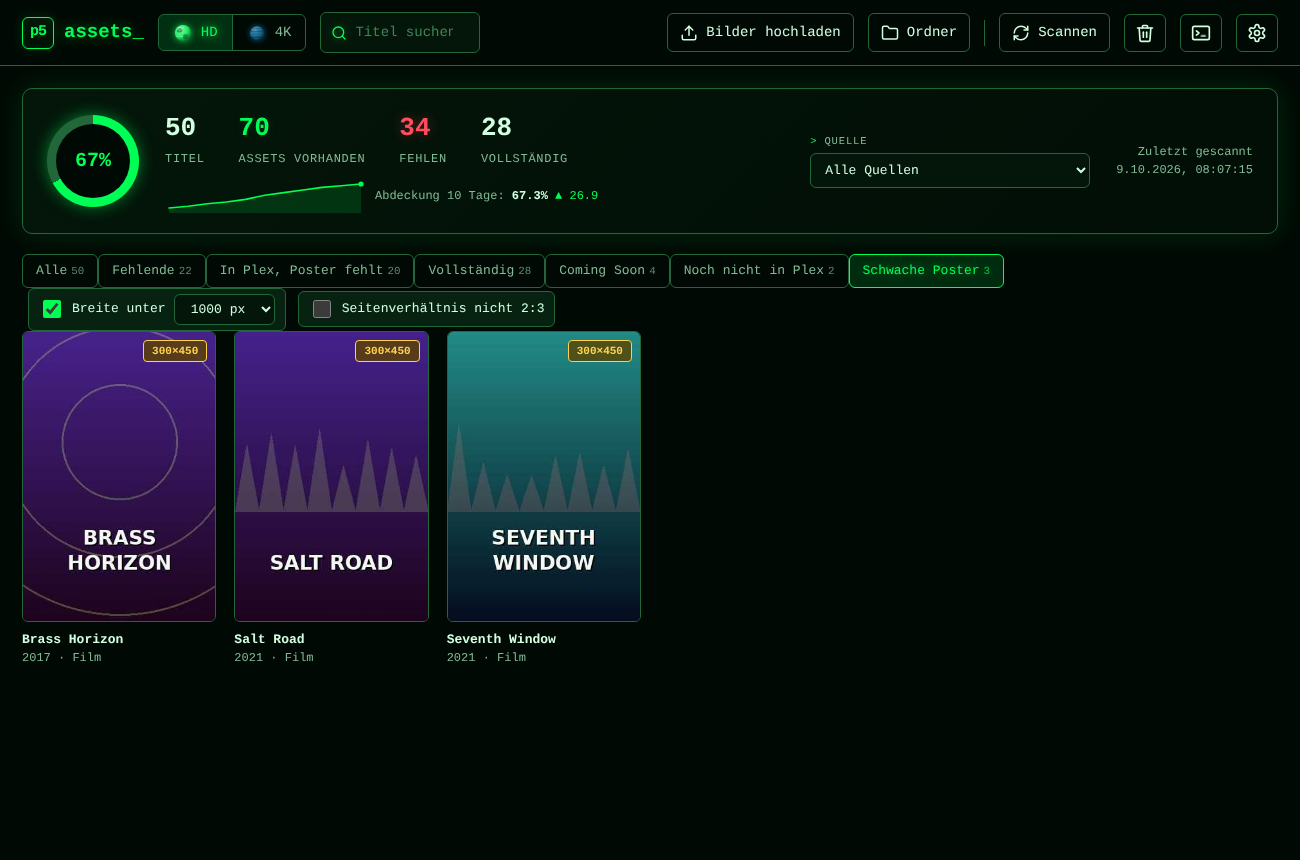
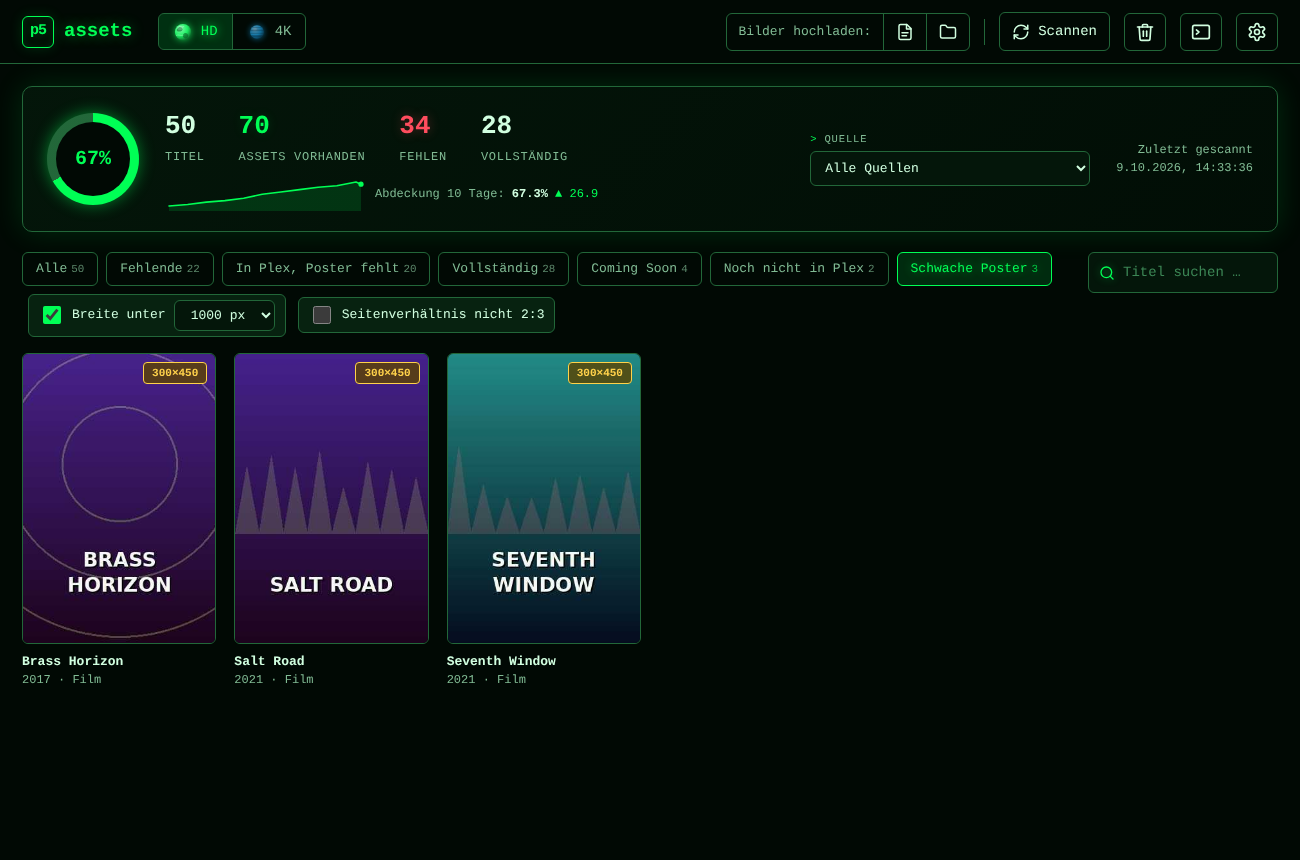
Kopfzeile schlanker: Upload-Gruppe mit Datei- und Ordner-Symbol, Suche neben den Reitern; Suche im Papierkorb und bei verwaisten Ordnern; neue README-Bilder
Claude-Session: https://claude.ai/code/session_01JoFLcQEW7QhHAh66qJqz46

diff --git a/app/static/app.js b/app/static/app.js
@@ -241,35 +241,54 @@ const fmtBytes = b => b >= 1048576 ? (b / 1048576).toFixed(1) + " MB" : Math.max
 const fmtWhen = ts => new Date(ts * 1000).toLocaleString("de-DE", { day: "2-digit", month: "2-digit", hour: "2-digit", minute: "2-digit" });
 const REASON = { replace: "ersetzt", delete: "gelöscht", orphan: "verwaister Ordner", restore: "vor Wiederherstellung" };
 
+const normText = t => (t || "").normalize("NFD").replace(/[\u0300-\u036f]/g, "").toLowerCase();
+const LIST_SEARCH_MIN = 8;      // a search field is only worth it for longer lists
+/** Small search field for a list inside a window; calls onInput(normalized text) while typing. */
+function listSearch(onInput) {
+  const input = h("input", { type: "search", placeholder: "Suchen …", autocomplete: "off", enterkeyhint: "search", oninput: e => onInput(normText(e.target.value).trim()) });
+  return h("div", { class: "search lsearch" }, icon("search", 16), input);
+}
+
 /** "Papierkorb & Aufräumen": the trash (replaced/deleted posters, 30 days) and folders that belong to no title any more. */
 function openCleanup(initial = "trash") {
   let tab = initial;
   const body = h("div"), tabs = h("div", { class: "tabs", style: "position:static" });
   const m = modal("Papierkorb & Aufräumen", h("div", {}, tabs, body));
+  const slotNames = g => (g.slot || "").split(", ").filter(Boolean).map(k => { try { return slotLabel(k, g.type || "show"); } catch { return k; } }).join(", ");
   const refresh = () => { loadItems().then(renderGrid); api("/status").then(r => { S.st.summary = r; updateHero(); }); };
 
   async function drawTrash() {
     fill(body, h("div", { class: "empty", style: "padding:30px" }, h("span", { class: "spin" })));
     const r = await api("/trash"), gs = r.groups;
     const total = gs.reduce((a, g) => a + g.size, 0);
+    const list = h("div"), count = h("span", { class: "hint", style: "margin:0" });
+    const rowEl = g => {
+      const file = g.files.find(f => !f.dir);
+      const days = Math.max(0, Math.ceil((g.expires * 1000 - Date.now()) / 86400000));
+      const slots = slotNames(g);
+      return h("div", { class: "trow" },
+        file ? h("img", { loading: "lazy", alt: "", src: `/api/trash/${g.id}/file/${file.n}` }) : h("div", { class: "noth" }, g.files.some(f => f.dir) ? "📁" : "＋"),
+        h("div", { class: "grow" }, h("b", {}, g.title || "—"), h("div", { class: "hint", style: "margin:0" }, [slots, REASON[g.reason] || g.reason].filter(Boolean).join(" · ")),
+          h("div", { class: "hint", style: "margin:0" }, `${fmtWhen(g.ts)} · ${fmtBytes(g.size)} · noch ${pl(days, "Tag", "Tage")}`)),
+        h("button", { class: "btn sm primary", onclick: async e => {
+          try { await busy(e.currentTarget, () => api(`/trash/${g.id}/restore`, { method: "POST" })); toast("Wiederhergestellt ✓", "ok"); refresh(); drawTrash(); }
+          catch (err) { toast(err.message, "bad"); }
+        } }, "Wiederherstellen"),
+        h("button", { class: "btn sm danger", title: "Endgültig löschen", onclick: async () => { await api("/trash/" + g.id, { method: "DELETE" }); drawTrash(); } }, icon("trash", 14)));
+    };
+    const items = gs.map(g => ({ el: rowEl(g), hay: normText([g.title, slotNames(g), REASON[g.reason] || g.reason, ...g.files.map(f => f.orig)].join(" ")) }));
+    const apply = q => {
+      const vis = items.filter(i => !q || i.hay.includes(q));
+      fill(list, vis.length ? vis.map(i => i.el) : h("div", { class: "empty", style: "padding:30px" }, "Nichts gefunden."));
+      count.textContent = (q ? `${vis.length} von ${gs.length} ${gs.length === 1 ? "Eintrag" : "Einträgen"}` : pl(gs.length, "Eintrag", "Einträge")) + ` · ${fmtBytes(total)}`;
+    };
+    apply("");
     fill(body,
       h("p", { class: "hint", style: "margin-top:0" }, `Ersetzte und gelöschte Poster bleiben ${pl(r.keep_days, "Tag", "Tage")} hier (höchstens 2 GB). „Wiederherstellen“ legt das alte Bild zurück.`),
-      gs.length ? h("div", { class: "row wrap", style: "margin-bottom:10px" }, h("span", { class: "hint", style: "margin:0" }, `${pl(gs.length, "Eintrag", "Einträge")} · ${fmtBytes(total)}`), h("span", { class: "spacer" }),
+      gs.length ? h("div", { class: "row wrap", style: "margin-bottom:10px" }, count, h("span", { class: "spacer" }),
+        gs.length >= LIST_SEARCH_MIN ? listSearch(apply) : null,
         h("button", { class: "btn sm danger", onclick: async () => { if (!confirm("Papierkorb ganz leeren? Das kann nicht rückgängig gemacht werden.")) return; await api("/trash", { method: "DELETE" }); drawTrash(); } }, "Papierkorb leeren")) : null,
-      gs.length ? gs.map(g => {
-        const file = g.files.find(f => !f.dir);
-        const days = Math.max(0, Math.ceil((g.expires * 1000 - Date.now()) / 86400000));
-        const slots = (g.slot || "").split(", ").filter(Boolean).map(k => { try { return slotLabel(k, g.type || "show"); } catch { return k; } }).join(", ");
-        return h("div", { class: "trow" },
-          file ? h("img", { loading: "lazy", alt: "", src: `/api/trash/${g.id}/file/${file.n}` }) : h("div", { class: "noth" }, g.files.some(f => f.dir) ? "📁" : "＋"),
-          h("div", { class: "grow" }, h("b", {}, g.title || "—"), h("div", { class: "hint", style: "margin:0" }, [slots, REASON[g.reason] || g.reason].filter(Boolean).join(" · ")),
-            h("div", { class: "hint", style: "margin:0" }, `${fmtWhen(g.ts)} · ${fmtBytes(g.size)} · noch ${days} Tag${days === 1 ? "" : "e"}`)),
-          h("button", { class: "btn sm primary", onclick: async e => {
-            try { const res = await busy(e.currentTarget, () => api(`/trash/${g.id}/restore`, { method: "POST" })); toast("Wiederhergestellt ✓", "ok"); refresh(); drawTrash(); }
-            catch (err) { toast(err.message, "bad"); }
-          } }, "Wiederherstellen"),
-          h("button", { class: "btn sm danger", title: "Endgültig löschen", onclick: async () => { await api("/trash/" + g.id, { method: "DELETE" }); drawTrash(); } }, icon("trash", 14)));
-      }) : h("div", { class: "empty", style: "padding:30px" }, "Der Papierkorb ist leer."));
+      gs.length ? list : h("div", { class: "empty", style: "padding:30px" }, "Der Papierkorb ist leer."));
   }
 
   async function drawOrphans() {
@@ -279,21 +298,40 @@ function openCleanup(initial = "trash") {
     if (r.blocked) { fill(body, h("div", { class: "status bad" }, "⚠ " + r.blocked)); return; }
     const sel = new Set();
     const list = h("div"), go = h("button", { class: "btn primary", disabled: true });
-    const toggleAll = h("button", { class: "btn sm", onclick: () => { const all = sel.size === r.orphans.length; list.querySelectorAll("input").forEach(i => { i.checked = !all; i.dispatchEvent(new Event("change")); }); } }, "Alle wählen");
-    const sync = () => { go.textContent = `${sel.size} in den Papierkorb`; go.disabled = !sel.size; toggleAll.textContent = sel.size === r.orphans.length ? "Alle abwählen" : "Alle wählen"; };
-    fill(list, r.orphans.map(o => h("label", { class: "trow orph" },
-      h("input", { type: "checkbox", onchange: e => { e.target.checked ? sel.add(o.path) : sel.delete(o.path); sync(); } }),
-      h("div", { class: "grow" }, h("b", {}, o.name), h("div", { class: "hint", style: "margin:0" }, `${o.path} · ${pl(o.files, "Datei", "Dateien")} · ${fmtBytes(o.size)} · ${fmtWhen(o.mtime)}`)))));
+    let visible = [], filtered = false;
+    const items = r.orphans.map(o => {
+      const input = h("input", { type: "checkbox", onchange: e => { e.target.checked ? sel.add(o.path) : sel.delete(o.path); sync(); } });
+      return { o, input, hay: normText(o.name + " " + o.path),
+        el: h("label", { class: "trow orph" }, input,
+          h("div", { class: "grow" }, h("b", {}, o.name), h("div", { class: "hint", style: "margin:0" }, `${o.path} · ${pl(o.files, "Datei", "Dateien")} · ${fmtBytes(o.size)} · ${fmtWhen(o.mtime)}`))) };
+    });
+    const toggleAll = h("button", { class: "btn sm", onclick: () => {
+      const all = visible.length && visible.every(i => sel.has(i.o.path));
+      visible.forEach(i => { i.input.checked = !all; i.input.dispatchEvent(new Event("change")); });
+    } }, "Alle wählen");
+    const sync = () => {
+      go.textContent = `${sel.size} in den Papierkorb`; go.disabled = !sel.size;
+      const all = visible.length && visible.every(i => sel.has(i.o.path));
+      toggleAll.textContent = (filtered ? "Treffer " : "Alle ") + (all ? "abwählen" : "wählen");
+    };
+    const count = h("span", { class: "hint", style: "margin:0" });
+    const apply = q => {
+      filtered = !!q; visible = items.filter(i => !q || i.hay.includes(q));
+      fill(list, visible.length ? visible.map(i => i.el) : h("div", { class: "empty", style: "padding:30px" }, "Nichts gefunden."));
+      count.textContent = q ? `${visible.length} von ${items.length} ${items.length === 1 ? "Ordner" : "Ordnern"}` : pl(items.length, "Ordner", "Ordner");
+      sync();
+    };
     go.onclick = async () => {
       if (!confirm(`${pl(sel.size, "Ordner", "Ordner")} in den Papierkorb verschieben? ${sel.size === 1 ? "Er lässt" : "Sie lassen"} sich dort 30 Tage lang wiederherstellen.`)) return;
       const res = await busy(go, () => api("/orphans/trash", { json: { world: S.world, paths: [...sel] } }));
-      toast(`${res.moved} Ordner im Papierkorb`, "ok", res.trash ? { label: "Rückgängig", fn: async () => { await api(`/trash/${res.trash}/restore`, { method: "POST" }); toast("Wiederhergestellt ✓", "ok"); } } : null);
+      toast(`${pl(res.moved, "Ordner", "Ordner")} im Papierkorb`, "ok", res.trash ? { label: "Rückgängig", fn: async () => { await api(`/trash/${res.trash}/restore`, { method: "POST" }); toast("Wiederhergestellt ✓", "ok"); } } : null);
       drawOrphans();
     };
-    sync();
+    apply("");
     fill(body,
       h("p", { class: "hint", style: "margin-top:0" }, `Ordner in „${curWorld().name}“ mit Postern oder Staffelbildern, zu denen es keinen Titel mehr gibt: weder in Plex noch in Sonarr/Radarr. Titel, die Sonarr oder Radarr noch kennen (auch angekündigte), bleiben geschützt.`),
-      r.orphans.length ? [h("div", { class: "row wrap", style: "margin-bottom:8px" }, toggleAll, h("span", { class: "spacer" }), go), list]
+      r.orphans.length ? [h("div", { class: "row wrap", style: "margin-bottom:8px" }, toggleAll, count, h("span", { class: "spacer" }),
+          r.orphans.length >= LIST_SEARCH_MIN ? listSearch(apply) : null, go), list]
         : h("div", { class: "empty", style: "padding:30px" }, "🎉 Keine verwaisten Ordner gefunden."));
   }
 
@@ -460,17 +498,19 @@ function dashboard() {
       h("div", { class: "logo" }, h("i", { class: "logomark", "aria-hidden": "true" }, "p5"), h("span", {}, "assets", h("u", {}, "_"))),
       ws.length > 1 ? h("div", { class: "worlds", title: "Welt wechseln" }, ws.map(w =>
         h("button", { class: w.id === S.world ? "on" : "", style: `--c:${worldColor(w)}`, title: w.name, onclick: () => switchWorld(w.id) }, planetSvg(w.hue ?? 140, 20), w.name))) : null,
-      h("div", { class: "search" }, icon("search", 16), h("input", { type: "search", placeholder: "Titel suchen …", id: "q", value: S.q, autocomplete: "off", enterkeyhint: "search", oninput: debounce(async e => { S.q = e.target.value; await loadItems(); renderGrid(); }, 150) })),
       h("div", { class: "spacer" }),
-      h("button", { class: "btn tb", title: "Bilder oder ZIPs wählen – p5assets ordnet sie automatisch den Titeln zu. Ordner und Dateien kannst du auch einfach ins Fenster ziehen.", onclick: () => pickFiles(f => importFiles(f), true) }, icon("upload"), h("span", { class: "lbl" }, "Bilder hochladen")),
-      h("button", { class: "btn tb folderpick", title: "Ganzen Ordner wählen (oder einfach ins Fenster ziehen)", onclick: () => pickFiles(f => importFiles(f), true, true) }, icon("folder"), h("span", { class: "lbl" }, "Ordner")),
+      // desktop: one small group with two pickers (images/ZIP, whole folder); touch devices: the single normal button
+      h("div", { class: "upgroup" }, h("span", { class: "uplab" }, "Bilder hochladen:"),
+        h("button", { class: "upb", title: "Bilder oder ZIP wählen – p5assets ordnet sie automatisch den Titeln zu", "aria-label": "Bilder oder ZIP wählen", onclick: () => pickFiles(f => importFiles(f), true) }, icon("file", 18)),
+        h("button", { class: "upb", title: "Ordner wählen – oder Ordner und Dateien einfach ins Fenster ziehen", "aria-label": "Ordner wählen", onclick: () => pickFiles(f => importFiles(f), true, true) }, icon("folder", 18))),
+      h("button", { class: "btn tb uptouch", title: "Bilder oder ZIPs wählen – p5assets ordnet sie automatisch den Titeln zu", onclick: () => pickFiles(f => importFiles(f), true) }, icon("upload"), h("span", { class: "lbl" }, "Bilder hochladen")),
       h("span", { class: "vsep" }),
       h("button", { class: "btn tb", id: "scanbtn", title: "Plex, Sonarr/Radarr und die Assets-Ordner neu einlesen", onclick: doScan }, icon("sync"), h("span", { class: "lbl" }, "Scannen")),
       h("button", { class: "btn tb icon", title: "Papierkorb & Aufräumen: ersetzte Poster zurückholen (30 Tage) und verwaiste Ordner entfernen", onclick: () => openCleanup() }, icon("trash", 20)),
       h("button", { class: "btn tb icon logbtn", id: "logbtn", title: "Logs", onclick: logsPage }, icon("terminal", 20), h("span", { class: "lbadge" })),
       h("button", { class: "btn tb icon", title: "Einstellungen", onclick: () => wizard(true) }, icon("gear", 20)),
     )),
-    h("main", {}, h("div", { id: "hero" }), h("div", { id: "chips" }), h("div", { id: "az", class: "azbar" }), h("div", { id: "grid" }), h("div", { id: "az2", class: "azbar" })),
+    h("main", {}, h("div", { id: "hero" }), h("div", { id: "tabrow", class: "tabrow" }, h("div", { id: "chips" }), h("div", { class: "search" }, icon("search", 16), h("input", { type: "search", placeholder: "Titel suchen …", id: "q", value: S.q, autocomplete: "off", enterkeyhint: "search", oninput: debounce(async e => { S.q = e.target.value; await loadItems(); renderGrid(); }, 150) }))), h("div", { id: "az", class: "azbar" }), h("div", { id: "grid" }), h("div", { id: "az2", class: "azbar" })),
   );
   updateHero();
   S.dimTries = 0; loadHistory();

diff --git a/app/static/style.css b/app/static/style.css
@@ -364,7 +364,6 @@ header.top{padding-top:env(safe-area-inset-top)}
   header.top{position:relative;backdrop-filter:none;background:hsl(var(--h) 80% 2%)}
   .top .in{padding:8px 12px;gap:8px}
   .logo{font-size:17px}.logomark{width:30px;height:30px;font-size:14px}
-  .top .in .search{order:20;flex:1 1 150px;max-width:none;min-width:0}
   .top .in .worlds{order:19}
   .top .in .spacer{flex:1 1 0}
   .vsep{display:none}
@@ -471,7 +470,6 @@ header.top{padding-top:env(safe-area-inset-top)}
 
 /* tablets: the search gets its own row, the statistic block wraps (more header buttons since the trash/undo icon) */
 @media(max-width:900px){
-  .top .in .search{order:20;flex:1 1 150px;max-width:none;min-width:0}
   .top .in .worlds{order:19}
   .hero.hassrc{grid-template-columns:auto 1fr}
   .hero.hassrc .srccell{grid-column:1/-1;max-width:none}
@@ -499,5 +497,18 @@ body::before{content:"";position:fixed;top:0;left:0;right:0;height:env(safe-area
 .lbox{max-height:calc(100dvh - env(safe-area-inset-top,0px) - env(safe-area-inset-bottom,0px) - 24px)}
 .modalwrap{align-items:safe center}
 
-/* Touch devices cannot pick whole folders: the extra button is for desktop browsers only */
-@media(hover:none){.folderpick{display:none}}
+
+
+/* upload group (desktop): label + two pickers; touch devices cannot pick whole folders and get the single button */
+.upgroup{display:flex;align-items:center;border:1px solid var(--line);border-radius:var(--r);overflow:hidden}
+.uplab{padding:0 12px;color:var(--muted);font-size:13px;white-space:nowrap}
+.upb{background:transparent;border:0;border-left:1px solid var(--line);padding:9px 12px;color:var(--text);display:grid;place-items:center;cursor:pointer}
+.upb:hover{background:var(--dim);color:var(--accent)}
+@media(hover:none){.upgroup{display:none}}
+@media(hover:hover){.uptouch{display:none}}
+/* tab row: categories left, global search right */
+.tabrow{display:flex;gap:12px;align-items:flex-start;margin-bottom:16px}
+.tabrow #chips{flex:1 1 auto;display:flex;flex-wrap:wrap;gap:8px;align-items:center;min-width:0}
+.tabrow .search{flex:0 0 190px;max-width:none;min-width:0}
+@media(max-width:900px){.tabrow{flex-wrap:wrap}.tabrow .search{order:-1;flex:1 1 100%}}
+.lsearch{flex:0 1 220px;min-width:140px;max-width:none}.lsearch input{padding:6px 10px 6px 34px;font-size:13px}

diff --git a/TODO.md b/TODO.md
@@ -174,6 +174,6 @@ Alle bisher gesammelten Punkte sind in Version 2 umgesetzt. Neue Beobachtungen b
 - [x] Kopfzeile: Das Symbol von „Rückgängig & Aufräumen“ (kreisförmiger Pfeil) sieht dem von „Scannen“ (zwei Kreispfeile) zu ähnlich. Vorschlag: **Papierkorb-Symbol** statt Pfeil; es passt zu beiden Reitern des Fensters (Rückgängig/Papierkorb und verwaiste Ordner), deshalb keine Trennung in zwei Knöpfe nötig. Tooltip/Titel „Papierkorb & Aufräumen“, Fenstertitel entsprechend; Alarm-Zähler optional (Anzahl wiederherstellbarer Einträge) prüfen. Auf dem Handy auch das Symbol der Kopfleiste und README-Bilder mit anpassen.
 - [x] Kopfzeile: Knopf „Titel anlegen“ (eigene Ordner) komplett entfernen – kaum ein Anwendungsfall, es gibt noch keine selbst angelegten Einträge. ENTSCHIEDEN: keine Migration nötig; sollte es doch welche geben, erscheinen deren Ordner als „verwaiste Ordner“ und lassen sich dort aufräumen (notfalls neu anlegen). Aufräumen im Code: Knopf, Dialog, `/api/custom`, `custom`-Config und Scan-Zweig, Schutz in der Verwaiste-Ordner-Prüfung, Scan-Schlüssel, README/Unraid/Onboarding-Texte und Bilder, Tests. Kopfzeile wird dadurch auch auf Handy/iPad luftiger.
 - [ ] Idee (später, nicht eilig): **Dateibrowser** in p5assets, um den Assets-Ordner direkt anzusehen (Ordner/Dateien, Umbenennen, Löschen über den Papierkorb, Verschieben). Würde „Titel anlegen“ und Aufräumen ergänzen; Sicherheit (nur innerhalb der Assets-Ordner, Pfadprüfung) von Anfang an mitdenken.
-- [ ] Kopfzeile, Hochladen: Der einzelne Knopf „Ordner“ ist nichtssagend. Stattdessen EINE kleine umrandete Upload-Gruppe mit der Beschriftung „Bilder hochladen:“ und zwei Symbolen darin: Datei/ZIP-Symbol (öffnet die Dateiauswahl für Bilder und ZIPs) und Ordner-Symbol (öffnet die Ordnerauswahl); beide mit Tooltip („Bilder oder ZIP wählen“ / „Ordner wählen“). Am Desktop; auf dem Handy/iPad bleibt der normale eine Knopf „Bilder hochladen“ (ohne Ordner-Symbol). Passend zum Stil der Welt-Umschalter/Gruppen gestalten, Kopfzeile darf nicht breiter werden; README-Bilder danach neu aufnehmen.
-- [ ] Kopfzeile schlanker: Die Suche („Titel suchen“) aus der Kopfzeile nehmen. Variante A (Vorschlag): rechts neben die Reiter (Alle · Fehlende · …) in dieselbe Zeile, am Zeilenende rechtsbündig; Variante B: unter die Quellenauswahl im Statistik-Block. Die Suche bleibt GLOBAL (sucht über alle Titel der Welt, unabhängig von Reiter und A–Z-Buchstabe; mit Quelle weiter eingeschränkt wie bisher). Auf dem Handy: eigene Zeile direkt über den Reitern bzw. der Liste. Dabei Tastaturfokus (Strg+K o. ä. optional), Leeren-Knopf und das Verhalten beim Welten-Wechsel prüfen; Kopfzeile danach nur noch Logo · Welten · Hochladen-Gruppe · Scannen · Papierkorb · Logs · Einstellungen.
-- [ ] Papierkorb: Suchfeld im Fenster „Papierkorb & Aufräumen“ (Reiter Papierkorb, UND bei Verwaiste Ordner – dort ebenfalls nach Ordnername/Pfad; „Alle wählen“ bezieht sich dann nur auf die sichtbaren Treffer), das die Liste sofort nach Titel, Ordnername und Art (z. B. „ersetzt“, „gelöscht“) filtert; zeigt die Trefferzahl („3 von 41 Einträgen“, Singular/Plural beachten) und hat einen Leeren-Knopf. Sichtbar ab etwa 8 Einträgen. Bei Treffer-Leere: „Nichts gefunden“.
+- [x] Kopfzeile, Hochladen: Der einzelne Knopf „Ordner“ ist nichtssagend. Stattdessen EINE kleine umrandete Upload-Gruppe mit der Beschriftung „Bilder hochladen:“ und zwei Symbolen darin: Datei/ZIP-Symbol (öffnet die Dateiauswahl für Bilder und ZIPs) und Ordner-Symbol (öffnet die Ordnerauswahl); beide mit Tooltip („Bilder oder ZIP wählen“ / „Ordner wählen“). Am Desktop; auf dem Handy/iPad bleibt der normale eine Knopf „Bilder hochladen“ (ohne Ordner-Symbol). Passend zum Stil der Welt-Umschalter/Gruppen gestalten, Kopfzeile darf nicht breiter werden; README-Bilder danach neu aufnehmen.
+- [x] Kopfzeile schlanker: Die Suche („Titel suchen“) aus der Kopfzeile nehmen. Variante A (Vorschlag): rechts neben die Reiter (Alle · Fehlende · …) in dieselbe Zeile, am Zeilenende rechtsbündig; Variante B: unter die Quellenauswahl im Statistik-Block. Die Suche bleibt GLOBAL (sucht über alle Titel der Welt, unabhängig von Reiter und A–Z-Buchstabe; mit Quelle weiter eingeschränkt wie bisher). Auf dem Handy: eigene Zeile direkt über den Reitern bzw. der Liste. Dabei Tastaturfokus (Strg+K o. ä. optional), Leeren-Knopf und das Verhalten beim Welten-Wechsel prüfen; Kopfzeile danach nur noch Logo · Welten · Hochladen-Gruppe · Scannen · Papierkorb · Logs · Einstellungen.
+- [x] Papierkorb: Suchfeld im Fenster „Papierkorb & Aufräumen“ (Reiter Papierkorb, UND bei Verwaiste Ordner – dort ebenfalls nach Ordnername/Pfad; „Alle wählen“ bezieht sich dann nur auf die sichtbaren Treffer), das die Liste sofort nach Titel, Ordnername und Art (z. B. „ersetzt“, „gelöscht“) filtert; zeigt die Trefferzahl („3 von 41 Einträgen“, Singular/Plural beachten) und hat einen Leeren-Knopf. Sichtbar ab etwa 8 Einträgen. Bei Treffer-Leere: „Nichts gefunden“.

diff --git a/README.md b/README.md
@@ -30,11 +30,11 @@ Ein schlanker Docker-Container im Matrix-Look. Er vergleicht deine Bibliotheken 
 ### Lücken finden
 Plex, Sonarr und Radarr werden zusammengeführt (über TMDb/TVDB/IMDb-IDs). Reiter zeigen sofort, was zu tun ist:
 **Fehlende**, **In Plex, Poster fehlt**, **Vollständig**, **Coming Soon**, **Noch nicht in Plex** (Sonarr/Radarr kennen den Titel, Plex noch nicht) und **Schwache Poster**.
-Dazu eine Quellenauswahl, schnelle Suche, A–Z-Leiste und eine Abdeckungsanzeige mit kleinem Verlauf pro Scan.
+Dazu eine Quellenauswahl, schnelle Suche (rechts neben den Reitern), A–Z-Leiste und eine Abdeckungsanzeige mit kleinem Verlauf pro Scan.
 Große Bibliotheken sind kein Problem: mit über 6000 Titeln antworten die Listen in rund 30 ms.
 
 ### Ersetzen per Drag & Drop
-Ein Bild auf eine Kachel, mehrere Dateien, ganze Ordner oder ZIPs irgendwo ins Fenster ziehen – oder über „Bilder hochladen“ bzw. „Ordner“ auswählen (auf dem iPhone/iPad genügt „Bilder hochladen“, Ordner gehen dort als ZIP). p5assets erkennt Titel,
+Ein Bild auf eine Kachel, mehrere Dateien, ganze Ordner oder ZIPs irgendwo ins Fenster ziehen – – oder über „Bilder hochladen:“ in der Kopfzeile auswählen (Datei-/ZIP-Symbol oder Ordner-Symbol; auf iPhone und iPad gibt es einen einzelnen Knopf, Ordner gehen dort als ZIP). p5assets erkennt Titel,
 Jahr und Staffel aus Datei- und Ordnernamen, zeigt die Zuordnung zur Kontrolle und benennt alles Kometa-konform
 (`<Medienordner>/poster.jpg`, `Season01.jpg` …). Neue Ordner landen dort, wo die anderen Titel schon liegen.
 
